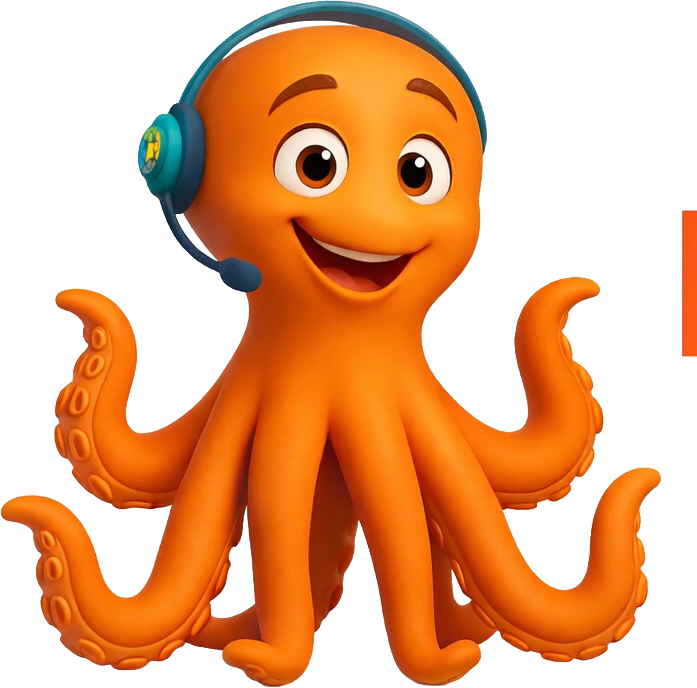
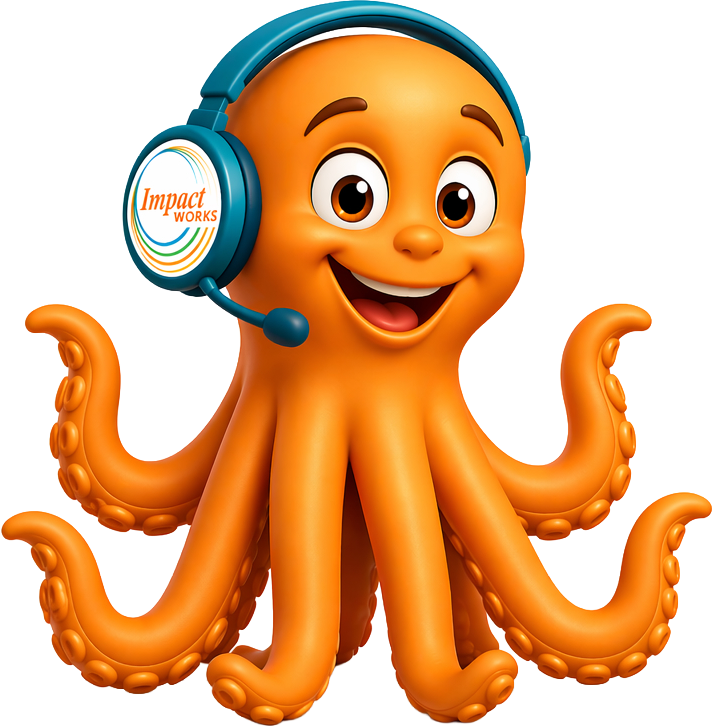
Homepage content + nav refresh, new Linksi assets
Home page:
- New hero headline: "An Innovative Community Operating System
  Connecting Communities to Critical Services"
- New hero subhead emphasizing data-driven solutions, funding, and
  collaboration
- Secondary CTA "See Community Impact" → "Explore the Community
  Operating System"
- Add small floating Linksi mascot peek in hero bottom-right (with
  bobbing animation, hidden on mobile)
- Add Linksi full wordmark logo above "How It Works" section
  heading; rename heading from "How Linksi Works" → "How It Works"
  (since the new logo carries the wordmark)
- Remove Ecosystem section entirely (was the bento grid of 9 sectors)

Navigation:
- Platform → "Linksi Platform"
- Impact → "Collaboration"
- "Get Started" CTA → "Join Us"
- Footer "Community Impact" link → "Collaboration"

Assets:
- Replace public/images/linksi-mascot.png with new Linksi octopus
  wearing Impact Works branded headphones
- Replace public/images/linksi-full.png with new gradient wordmark
  + branded mascot

Auto-applies the new mascot to /platform (which references the
same asset path) — satisfies items 6a and 6b for the platform
page without code changes there.

Defers (need input): Foundation page (3), Partners→Providers/Hosts
split (2), Clay County/Impact stats updates (4,5), closed-loop
referral verbiage (6c), About history (7a).

diff --git a/app/page.tsx b/app/page.tsx
@@ -8,12 +8,6 @@ import ScrollReveal from "@/components/ScrollReveal";
 import HeroArcs from "@/components/HeroArcs";
 import HeroNetworkSVG from "@/components/HeroNetworkSVG";
 
-const sectors = [
-  "Housing", "Food", "Healthcare",
-  "Mental Health", "Jobs", "Education",
-  "Transportation", "Childcare", "Legal",
-];
-
 export default function Home() {
   return (
     <div>
@@ -26,14 +20,14 @@ export default function Home() {
           <div>
             <motion.p initial={{ opacity: 0, y: 10 }} animate={{ opacity: 1, y: 0 }} transition={{ duration: 0.5 }} className="eyebrow mb-5">Community Impact Platform</motion.p>
             <motion.h1 initial={{ opacity: 0, y: 30 }} animate={{ opacity: 1, y: 0 }} transition={{ duration: 0.8, ease: [0.16, 1, 0.3, 1] }} className="heading-hero text-white mb-6">
-              Connecting Communities to{" "}<span className="gradient-text-orange">Critical Services</span>
+              An Innovative Community Operating System Connecting Communities to{" "}<span className="gradient-text-orange">Critical Services</span>
             </motion.h1>
             <motion.p initial={{ opacity: 0 }} animate={{ opacity: 1 }} transition={{ duration: 0.6, delay: 0.2 }} className="body-text text-slate-300 max-w-lg mb-10">
-              Impact Works develops data-driven solutions that make it easier for people to find the help they need while strengthening collaboration between organizations that serve the community.
+              Impact Works develops data-driven solutions, making it easier for people to find the help they need while strengthening funding and collaboration among organizations serving the community.
             </motion.p>
             <motion.div initial={{ opacity: 0, y: 16 }} animate={{ opacity: 1, y: 0 }} transition={{ duration: 0.5, delay: 0.3 }} className="flex flex-wrap gap-4">
               <Link href="/platform" className="btn-primary">Explore Linksi <span>&rarr;</span></Link>
-              <Link href="/impact" className="btn-ghost">See Community Impact</Link>
+              <Link href="/impact" className="btn-ghost">Explore the Community Operating System</Link>
             </motion.div>
           </div>
           <motion.div initial={{ opacity: 0, scale: 0.9 }} animate={{ opacity: 1, scale: 1 }} transition={{ duration: 1, delay: 0.2, ease: [0.16, 1, 0.3, 1] }} className="relative flex justify-center">
@@ -44,6 +38,27 @@ export default function Home() {
         <motion.div initial={{ opacity: 0 }} animate={{ opacity: 1 }} transition={{ delay: 1.5 }} className="absolute bottom-8 left-1/2 -translate-x-1/2">
           <motion.div animate={{ y: [0, 8, 0] }} transition={{ duration: 1.5, repeat: Infinity }} className="w-5 h-8 border border-white/30 rounded-full flex justify-center pt-1.5">
             <div className="w-1 h-1.5 bg-brand-orange rounded-full" />
+          </motion.div>
+        </motion.div>
+
+        {/* Linksi mascot — small friendly peek in bottom-right */}
+        <motion.div
+          initial={{ opacity: 0, scale: 0.6, y: 20 }}
+          animate={{ opacity: 1, scale: 1, y: 0 }}
+          transition={{ duration: 0.8, delay: 1.2, ease: [0.16, 1, 0.3, 1] }}
+          className="hidden md:block absolute bottom-6 right-6 lg:right-12 z-20 pointer-events-none"
+        >
+          <motion.div
+            animate={{ y: [0, -10, 0] }}
+            transition={{ duration: 4, repeat: Infinity, ease: "easeInOut" }}
+          >
+            <Image
+              src="/images/linksi-mascot.png"
+              alt="Linksi mascot"
+              width={140}
+              height={140}
+              className="drop-shadow-[0_8px_24px_rgba(232,117,26,0.35)]"
+            />
           </motion.div>
         </motion.div>
       </section>
@@ -79,8 +94,16 @@ export default function Home() {
       <section className="section-pad section-light-alt">
         <div className="max-w-site mx-auto">
           <ScrollReveal className="text-center mb-12">
-            <p className="eyebrow mb-4">The Solution</p>
-            <h2 className="heading-section text-slate-800 mb-4">How <span className="gradient-text-blue">Linksi</span> Works</h2>
+            <p className="eyebrow mb-6">The Solution</p>
+            <Image
+              src="/images/linksi-full.png"
+              alt="Linksi"
+              width={400}
+              height={267}
+              className="w-full max-w-xs sm:max-w-sm mx-auto mb-4"
+              priority={false}
+            />
+            <h2 className="heading-section text-slate-800 mb-4">How It Works</h2>
             <p className="body-text-muted max-w-2xl mx-auto">A smarter path from need to help — in three simple steps.</p>
           </ScrollReveal>
 
@@ -107,90 +130,6 @@ export default function Home() {
                 </div>
               </ScrollReveal>
             ))}
-          </div>
-        </div>
-      </section>
-
-      {/* ━━━ ECOSYSTEM — bento grid with visual hierarchy ━━━ */}
-      <section className="section-pad section-light">
-        <div className="max-w-site mx-auto">
-          <ScrollReveal className="mb-12">
-            <p className="eyebrow mb-4">The Ecosystem</p>
-            <h2 className="heading-section text-slate-800 mb-4">Collaboration Across <span className="gradient-text-blue">Sectors</span></h2>
-            <p className="body-text-muted max-w-2xl">Impact Works brings together organizations across sectors to build a coordinated network of services.</p>
-          </ScrollReveal>
-
-          {/* Bento grid — asymmetric, visual hierarchy */}
-          <div className="grid grid-cols-2 md:grid-cols-4 gap-4">
-            {/* Primary sectors — larger, colored */}
-            <ScrollReveal className="md:col-span-2 md:row-span-2">
-              <div className="bg-brand-blue rounded-2xl p-8 h-full text-white group hover:shadow-xl transition-all duration-300 relative overflow-hidden">
-                <div className="absolute -bottom-8 -right-8 w-32 h-32 border-2 border-white/10 rounded-full" />
-                <p className="font-mono text-xs text-white/50 mb-3">01</p>
-                <h3 className="font-display text-2xl font-bold mb-2">Housing</h3>
-                <p className="text-white/70 text-sm leading-relaxed">Connecting residents with safe, affordable housing assistance and shelter programs.</p>
-              </div>
-            </ScrollReveal>
-
-            <ScrollReveal delay={0.05}>
-              <div className="bg-brand-green rounded-2xl p-6 text-white group hover:shadow-xl transition-all duration-300 h-full">
-                <p className="font-mono text-xs text-white/50 mb-2">02</p>
-                <h3 className="font-display text-lg font-bold">Food</h3>
-                <p className="text-white/60 text-xs mt-1">Food banks & nutrition</p>
-              </div>
-            </ScrollReveal>
-
-            <ScrollReveal delay={0.1}>
-              <div className="bg-brand-orange rounded-2xl p-6 text-white group hover:shadow-xl transition-all duration-300 h-full">
-                <p className="font-mono text-xs text-white/50 mb-2">03</p>
-                <h3 className="font-display text-lg font-bold">Healthcare</h3>
-                <p className="text-white/60 text-xs mt-1">Medical access</p>
-              </div>
-            </ScrollReveal>
-
-            <ScrollReveal delay={0.15}>
-              <div className="bg-brand-gold rounded-2xl p-6 text-white group hover:shadow-xl transition-all duration-300 h-full">
-                <p className="font-mono text-xs text-white/50 mb-2">04</p>
-                <h3 className="font-display text-lg font-bold">Jobs</h3>
-                <p className="text-white/60 text-xs mt-1">Employment services</p>
-              </div>
-            </ScrollReveal>
-
-            <ScrollReveal delay={0.2}>
-              <div className="bg-slate-800 rounded-2xl p-6 text-white group hover:shadow-xl transition-all duration-300 h-full">
-                <p className="font-mono text-xs text-white/40 mb-2">05</p>
-                <h3 className="font-display text-lg font-bold">Mental Health</h3>
-                <p className="text-white/50 text-xs mt-1">Counseling & crisis</p>
-              </div>
-            </ScrollReveal>
-
-            {/* Secondary sectors — compact row */}
-            <ScrollReveal delay={0.08} className="md:col-span-2">
-              <div className="grid grid-cols-2 gap-4 h-full">
-                <div className="bg-gray-50 rounded-2xl p-5 border border-slate-100 hover:shadow-lg hover:-translate-y-0.5 transition-all duration-300">
-                  <p className="font-mono text-[10px] text-slate-400 mb-1">06</p>
-                  <h3 className="font-display text-sm font-bold text-slate-800">Education</h3>
-                </div>
-                <div className="bg-gray-50 rounded-2xl p-5 border border-slate-100 hover:shadow-lg hover:-translate-y-0.5 transition-all duration-300">
-                  <p className="font-mono text-[10px] text-slate-400 mb-1">07</p>
-                  <h3 className="font-display text-sm font-bold text-slate-800">Transportation</h3>
-                </div>
-              </div>
-            </ScrollReveal>
-
-            <ScrollReveal delay={0.12}>
-              <div className="bg-gray-50 rounded-2xl p-5 border border-slate-100 hover:shadow-lg hover:-translate-y-0.5 transition-all duration-300 h-full">
-                <p className="font-mono text-[10px] text-slate-400 mb-1">08</p>
-                <h3 className="font-display text-sm font-bold text-slate-800">Childcare</h3>
-              </div>
-            </ScrollReveal>
-
-            <ScrollReveal delay={0.15}>
-              <div className="bg-gray-50 rounded-2xl p-5 border border-slate-100 hover:shadow-lg hover:-translate-y-0.5 transition-all duration-300 h-full">
-                <p className="font-mono text-[10px] text-slate-400 mb-1">09</p>
-                <h3 className="font-display text-sm font-bold text-slate-800">Legal</h3>
-              </div>
-            </ScrollReveal>
           </div>
         </div>
       </section>

diff --git a/components/Nav.tsx b/components/Nav.tsx
@@ -9,8 +9,8 @@ import { motion, AnimatePresence } from "framer-motion";
 const links = [
   { href: "/", label: "Home" },
   { href: "/about", label: "About" },
-  { href: "/platform", label: "Platform" },
-  { href: "/impact", label: "Impact" },
+  { href: "/platform", label: "Linksi Platform" },
+  { href: "/impact", label: "Collaboration" },
   { href: "/partners", label: "Partners" },
   { href: "/expansion", label: "Expansion" },
   { href: "/contact", label: "Contact" },
@@ -75,7 +75,7 @@ export default function Nav() {
             </Link>
           ))}
           <Link href="/contact" className="ml-4 btn-primary !py-2.5 !px-5 text-sm !rounded-lg">
-            Get Started
+            Join Us
           </Link>
         </div>
 

diff --git a/components/Footer.tsx b/components/Footer.tsx
@@ -22,7 +22,7 @@ export default function Footer() {
               {[
                 { href: "/about", label: "About" },
                 { href: "/platform", label: "Linksi Platform" },
-                { href: "/impact", label: "Community Impact" },
+                { href: "/impact", label: "Collaboration" },
                 { href: "/partners", label: "Partners" },
                 { href: "/expansion", label: "Expansion" },
               ].map((link) => (
